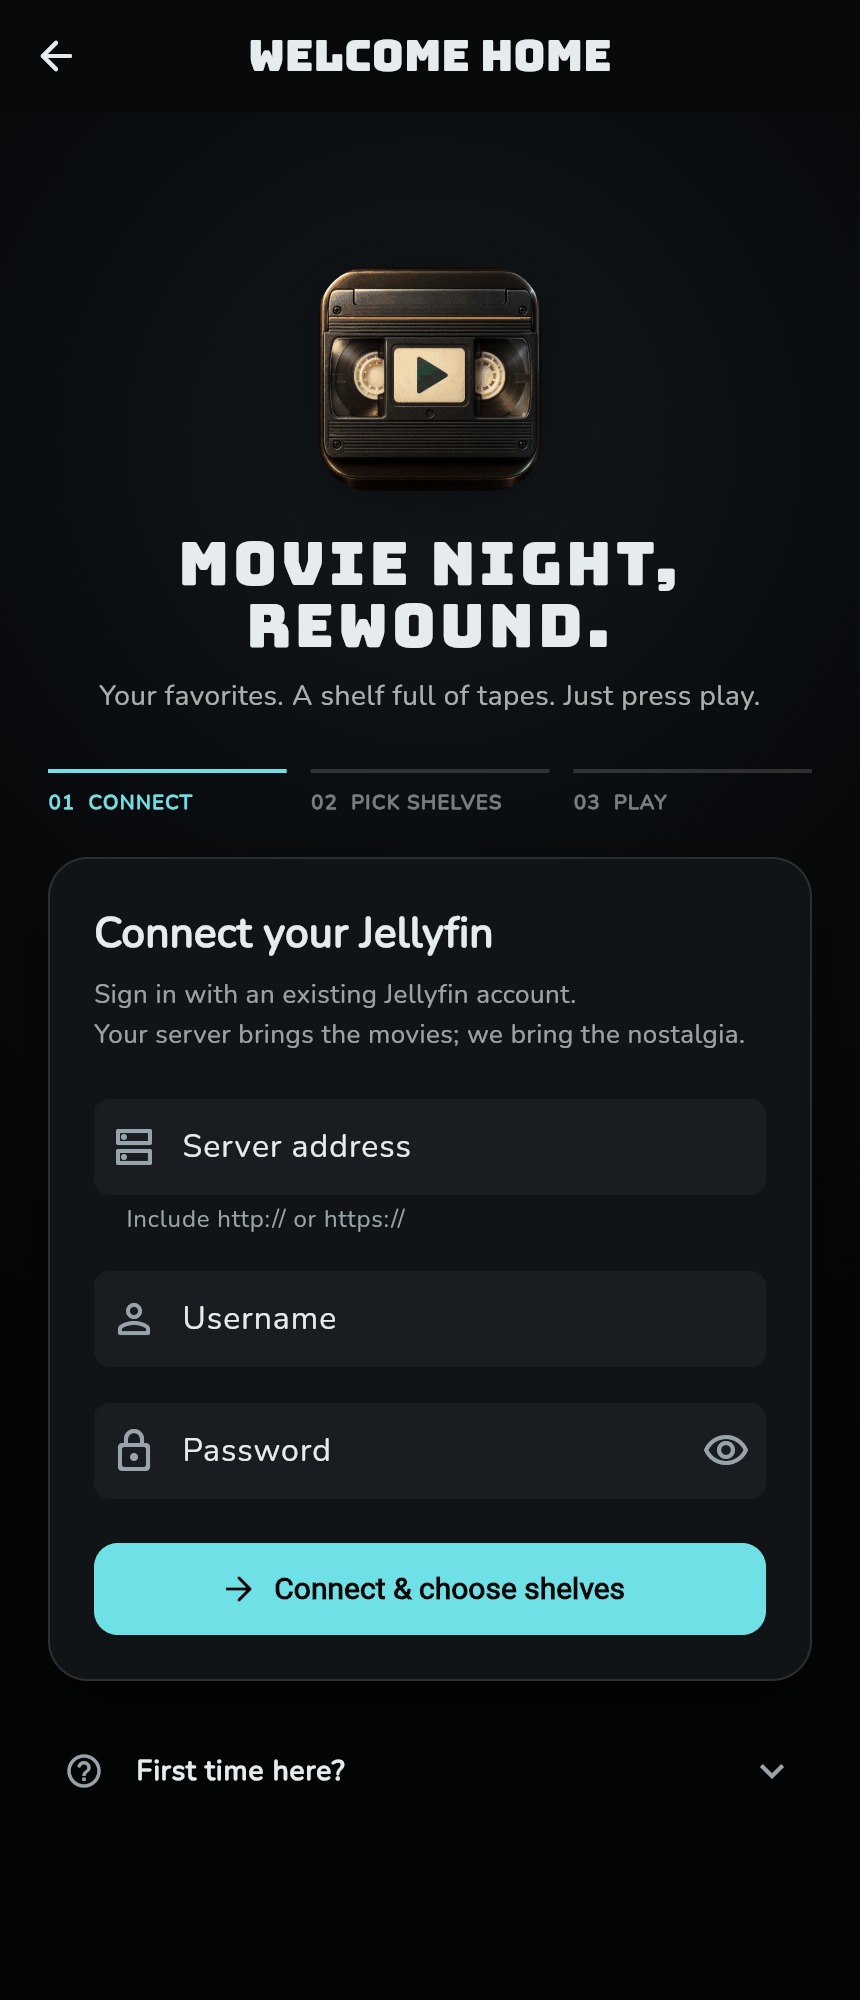
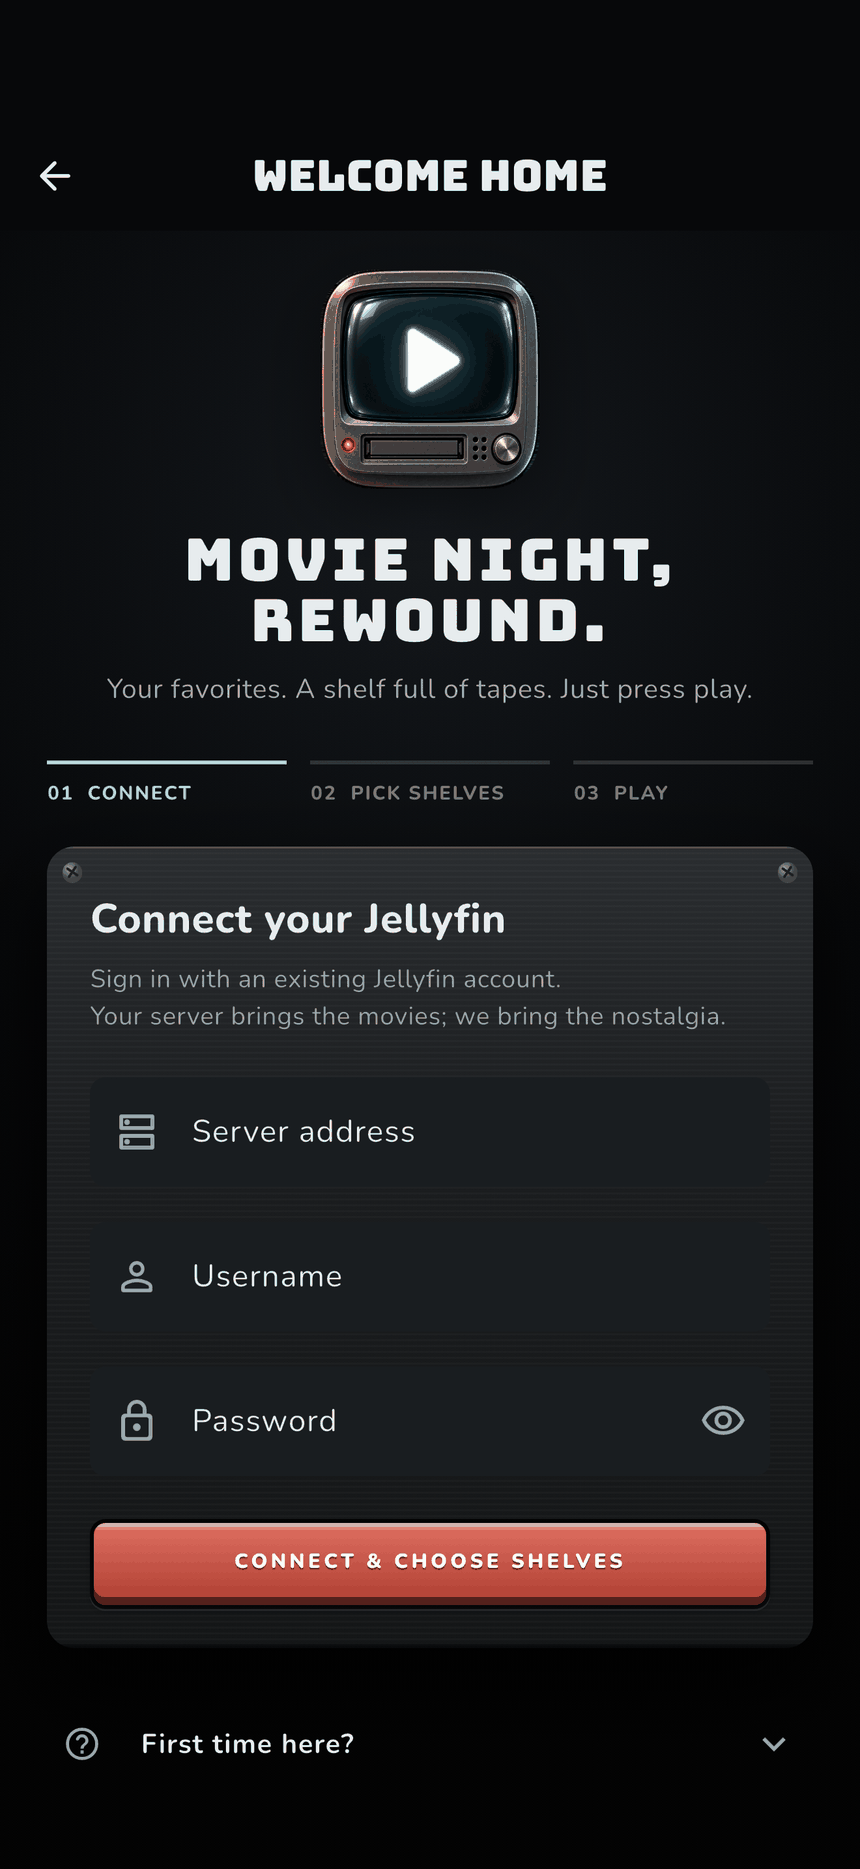
Credit the Blender films in the listings and refresh README screenshots
The store descriptions say the screenshots show Blender's open movies
under CC BY. The README captures now show the demo shelf's sleeves;
the unused desktop capture is gone. The checklist records the store
apps, Netlify badge, and support email as done.

diff --git a/docs/screenshots/README.md b/docs/screenshots/README.md
@@ -1,9 +1,10 @@
 # App screenshots
 
-These are captures of the running Flutter web app, not generated UI mockups:
+These are captures of the running app in demo mode on the iPhone simulator, not generated UI mockups:
 
-- `connect.png`: the welcome and connection form, 430 × 1000 viewport at 2×.
-- `living-room.png`: the living room with the demo shelf, 430 × 1000 viewport at 2×.
-- `desktop.png`: the same room on a 1280 × 720 laptop viewport.
+- `connect.png`: the welcome and connection form.
+- `living-room.png`: the living room with the demo shelf.
 
-The README's movie-night image is a separate generated brand illustration. These screenshots intentionally contain no account credentials or copyrighted movie artwork: the shelf is `make demo`'s Blender open movies (CC BY) with printed spines. When updating them, serve the demo build, capture the same viewport sizes with blank login fields and no signed-in account, and reduce them to a 256-colour palette to keep the repository small.
+They come from `tool/store_screenshots.sh` (raw captures in `screenshots/raw/iphone/`), scaled to 860 pixels wide and reduced to a 256-colour palette to keep the repository small. They contain no account credentials or third-party movie artwork: the shelf holds the Blender open movies (CC BY) in the sleeves made for VHSFin (see [demo-sleeves.md](../demo-sleeves.md)).
+
+The README's movie-night image is a separate generated brand illustration.
